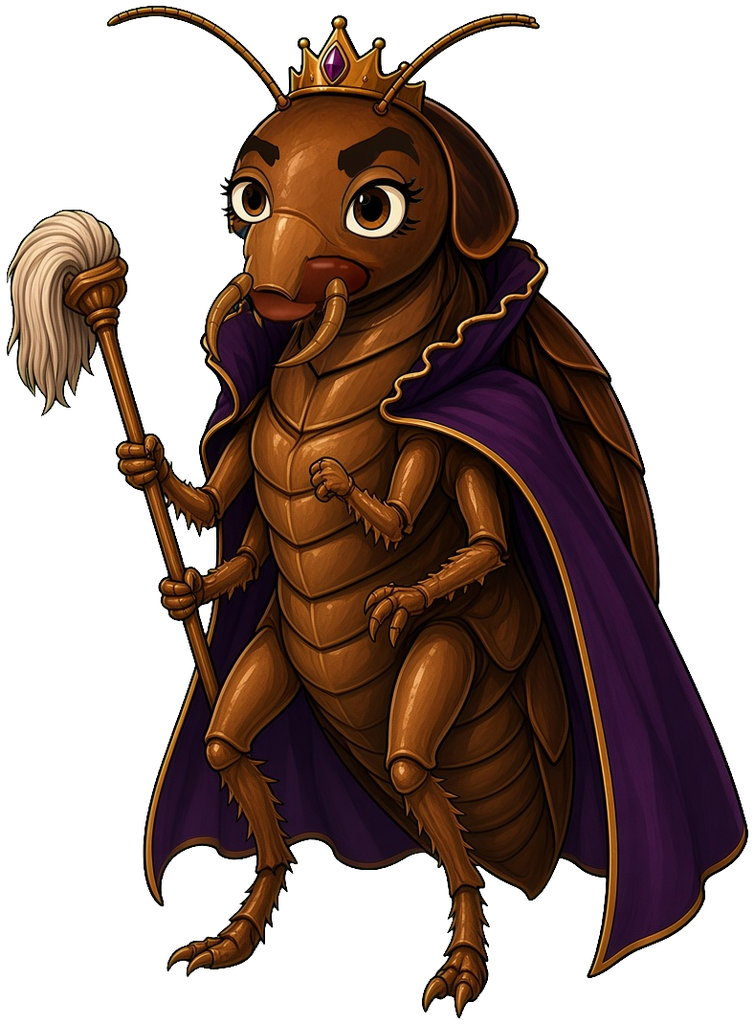
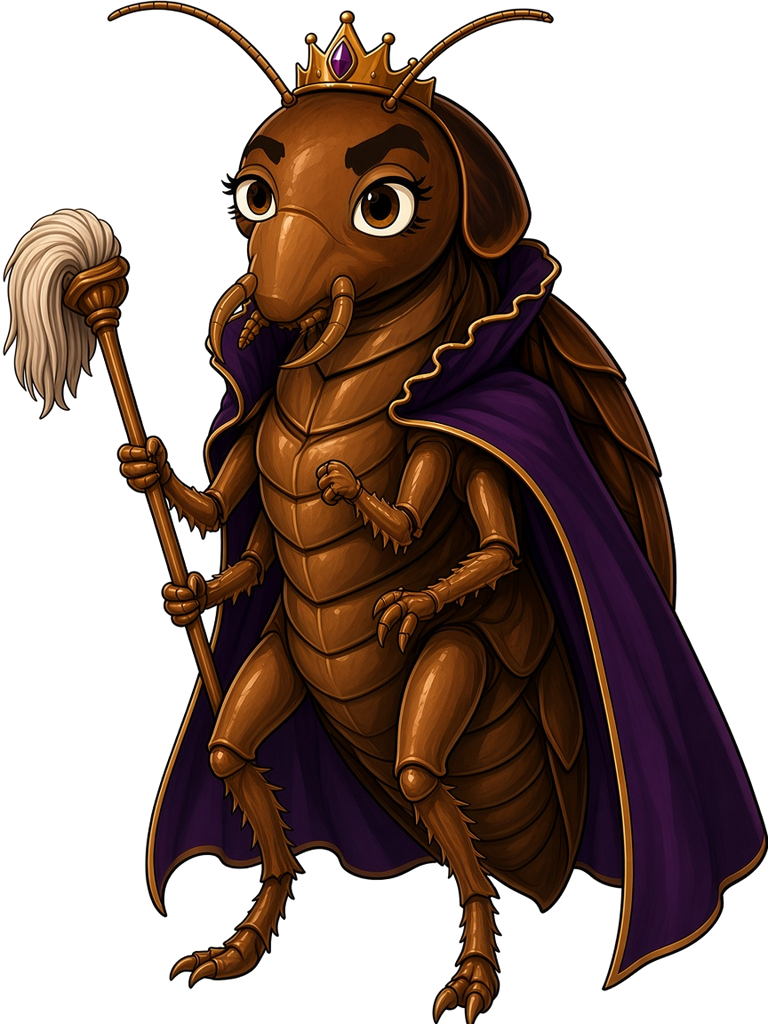
fix(ch1): Scribe/Reine mandibules only — plus de bouche humaine
- Frère Élytre : nouveau portrait GenAI + planche 4×2 (scribe-sheet.png) ;
  talk = palpes/mandibules qui s'écartent, plus de bouche procédurale rose
  (la planche prime sur le portrait fixe).
- Reine : planche + ref reconstruites depuis le buste mandibules-only
  (lèvre humaine supprimée sur toutes les frames).
- Sprites en pied Scribe/Reine remplacés (détourage fond blanc), aspects à jour.
- Repli sans planche des cafards : aucune bouche (largeur 0), ni dents.

Changed region(s): [[0.0, 0.0, 1.0, 1.0], [0.6711, 0.4688, 0.7321, 0.5312], [0.9151, 0.6562, 0.9456, 0.7188]]

diff --git a/src/three/Studio.ts b/src/three/Studio.ts
@@ -34,9 +34,10 @@ export const sheetUrl = (id: string) => `portraits/${id}-sheet.png`;
 export const overlayKey = (id: string) => `portraitOverlay:${id}`;
 export const overlayUrl = (id: string) => `portraits/${id}-robot.png`;
 /**
- * Portraits fixes GenAI (sans planche) : PNG chargé sous `portraitKey(id)`,
- * affiché par DialogueBox comme un portrait 3D fixe (Frère Élytre : buste
- * recadré de son sprite en pied, _briefs/ch1/genai/scribe-body.png).
+ * Portraits GenAI sans modèle 3D : PNG fixe chargé sous `portraitKey(id)` (repli)
+ * + planche `sheetUrl(id)` au layout SHEET, qui prime dès qu'elle est chargée
+ * (Frère Élytre : _briefs/ch1/genai-fix/faces.py — mandibules qui s'écartent en
+ * parlant, jamais de bouche).
  */
 const GENAI_PORTRAITS: Record<string, string> = { scribe: 'portraits/scribe-portrait.png' };
 
@@ -167,7 +168,7 @@ export const PORTRAIT_IDS = Object.keys(PORTRAITS);
  * Planches GenAI (docs/PORTRAIT_GENAI.md) : jamais rebakées, ni par
  * `bake:portraits` ni au runtime — le 3D suit l'image, pas l'inverse.
  */
-export const GENAI_SHEETS: ReadonlySet<string> = new Set(['gary', 'sylvie', 'bob', 'reine']);
+export const GENAI_SHEETS: ReadonlySet<string> = new Set(['gary', 'sylvie', 'bob', 'reine', 'scribe']);
 
 function makeRenderer(): THREE.WebGLRenderer {
   const renderer = new THREE.WebGLRenderer({ antialias: true, alpha: true, preserveDrawingBuffer: true });
@@ -567,7 +568,10 @@ export function preloadPortraitSheets(load: Phaser.Loader.LoaderPlugin): void {
   for (const id of Object.keys(PORTRAIT_OVERLAYS)) if (!load.textureManager.exists(overlayKey(id))) load.image(overlayKey(id), overlayUrl(id));
   for (const id of GENAI_ICONS) if (!load.textureManager.exists(iconKey(id))) load.image(iconKey(id), genaiIconUrl(id));
   for (const { icon } of Object.values(GENAI_VARIANTS)) if (!load.textureManager.exists(iconKey(icon))) load.image(iconKey(icon), genaiIconUrl(icon));
-  for (const [id, url] of Object.entries(GENAI_PORTRAITS)) if (!load.textureManager.exists(portraitKey(id))) load.image(portraitKey(id), url);
+  for (const [id, url] of Object.entries(GENAI_PORTRAITS)) {
+    if (!load.textureManager.exists(portraitKey(id))) load.image(portraitKey(id), url);
+    if (!load.textureManager.exists(sheetKey(id))) load.image(sheetKey(id), sheetUrl(id));
+  }
 }
 
 /** Génère (une fois par jeu) toutes les textures d'icônes et de portraits. */

diff --git a/src/ui/DialogueBox.ts b/src/ui/DialogueBox.ts
@@ -56,17 +56,9 @@ const FACES: Record<string, { mouth: MouthOptions; blink?: BlinkOptions }> = {
   sylvie: {
     mouth: { x: 0.5, y: 0.6, width: 0.26, style: { lipColor: '#7fffd4', innerColor: '#0b3a35', teethColor: null, tongueColor: null, outlineColor: null } },
   },
-  reine: {
-    mouth: { x: 0.58, y: 0.79, width: 0.2, style: { lipColor: '#3a1a08', innerColor: '#120600', teethColor: '#e8d890', tongueColor: null } },
-    blink: {
-      eyes: [
-        { x: 0.405, y: 0.51, width: 0.17, height: 0.18 },
-        { x: 0.76, y: 0.51, width: 0.17, height: 0.18 },
-      ],
-      lidColor: '#5a2e0c',
-      lashColor: '#1a0a02',
-    },
-  },
+  // cafards : mandibules + palpes seulement, jamais de bouche (largeur 0 = rien dessiné)
+  reine: { mouth: { width: 0, showClosed: false }, blink: { enabled: false } },
+  scribe: { mouth: { width: 0, showClosed: false }, blink: { enabled: false } },
 };
 
 /** Boîte de dialogue : portrait 3D, cartouche de nom, texte, choix. */

diff --git a/src/three/props.ts b/src/three/props.ts
@@ -696,12 +696,12 @@ export function billboard(url: string, h: number, aspect: number, o: { tint?: TH
   return g;
 }
 
-/** Sa Majesté Blattaria XIV en pied (GenAI, 754 × 1024). */
+/** Sa Majesté Blattaria XIV en pied (GenAI, 768 × 1024, _briefs/ch1/genai-fix/cutout.py). */
 export const REINE_URL = `${import.meta.env.BASE_URL}props/ch1/reine.png`;
-export const REINE_ASPECT = 754 / 1024;
-/** Frère Élytre, Grand Scribe, en pied (GenAI, 643 × 1024). */
+export const REINE_ASPECT = 768 / 1024;
+/** Frère Élytre, Grand Scribe, en pied (GenAI, 637 × 1024, _briefs/ch1/genai-fix/cutout.py). */
 export const SCRIBE_URL = `${import.meta.env.BASE_URL}props/ch1/scribe.png`;
-export const SCRIBE_ASPECT = 643 / 1024;
+export const SCRIBE_ASPECT = 637 / 1024;
 
 /** Texture de la plaque « Règlement n°1 » : émail bleu nuit, bandeau rouge, gravure ambre. */
 function reglementTexture(aspect: number): THREE.CanvasTexture {
